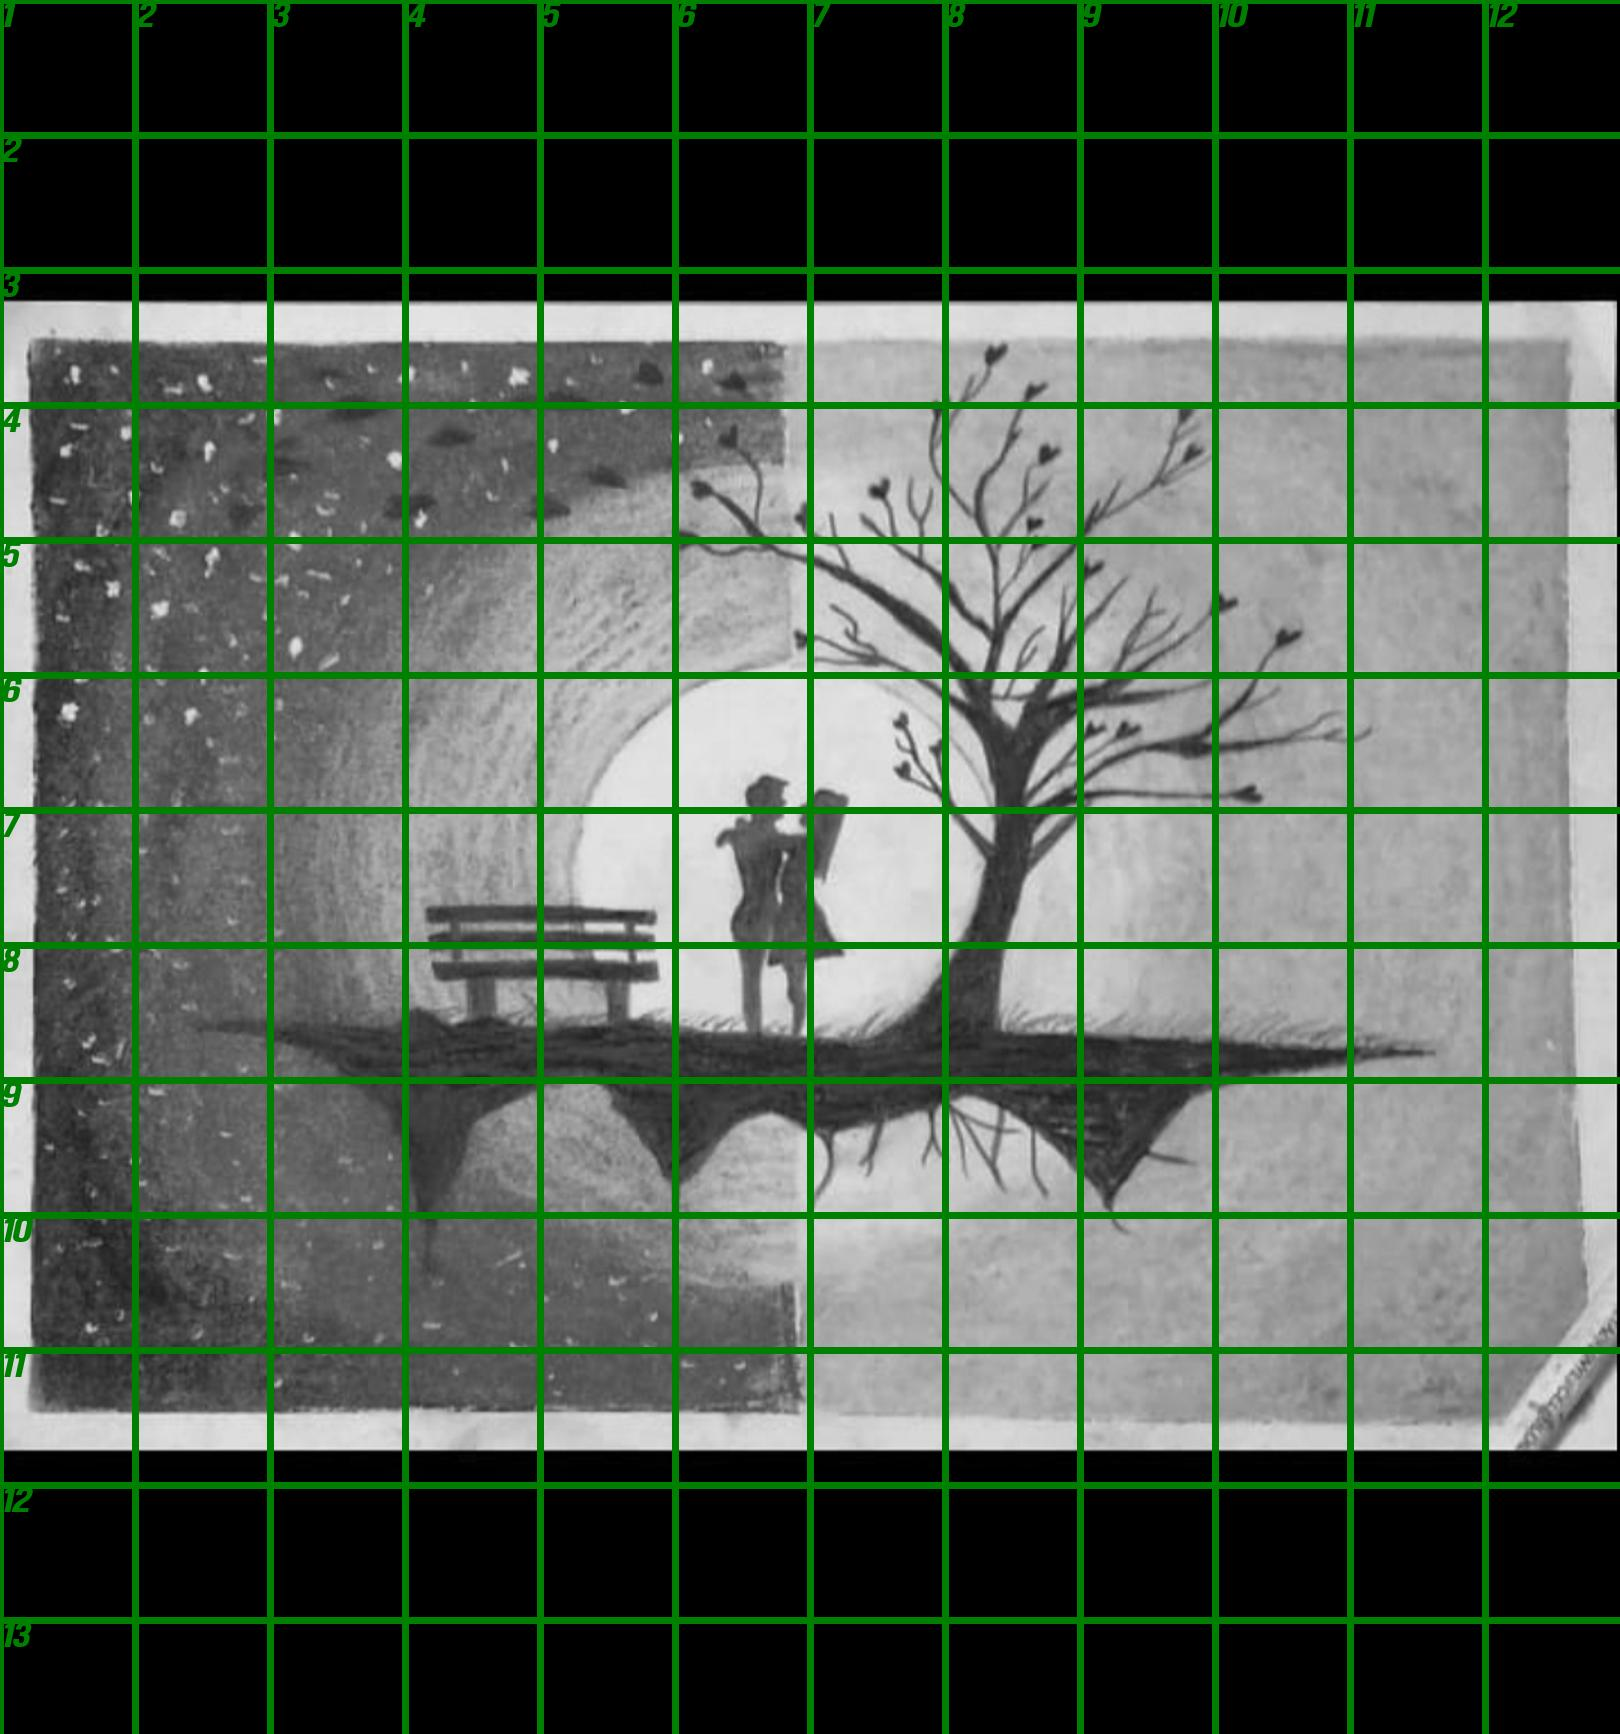
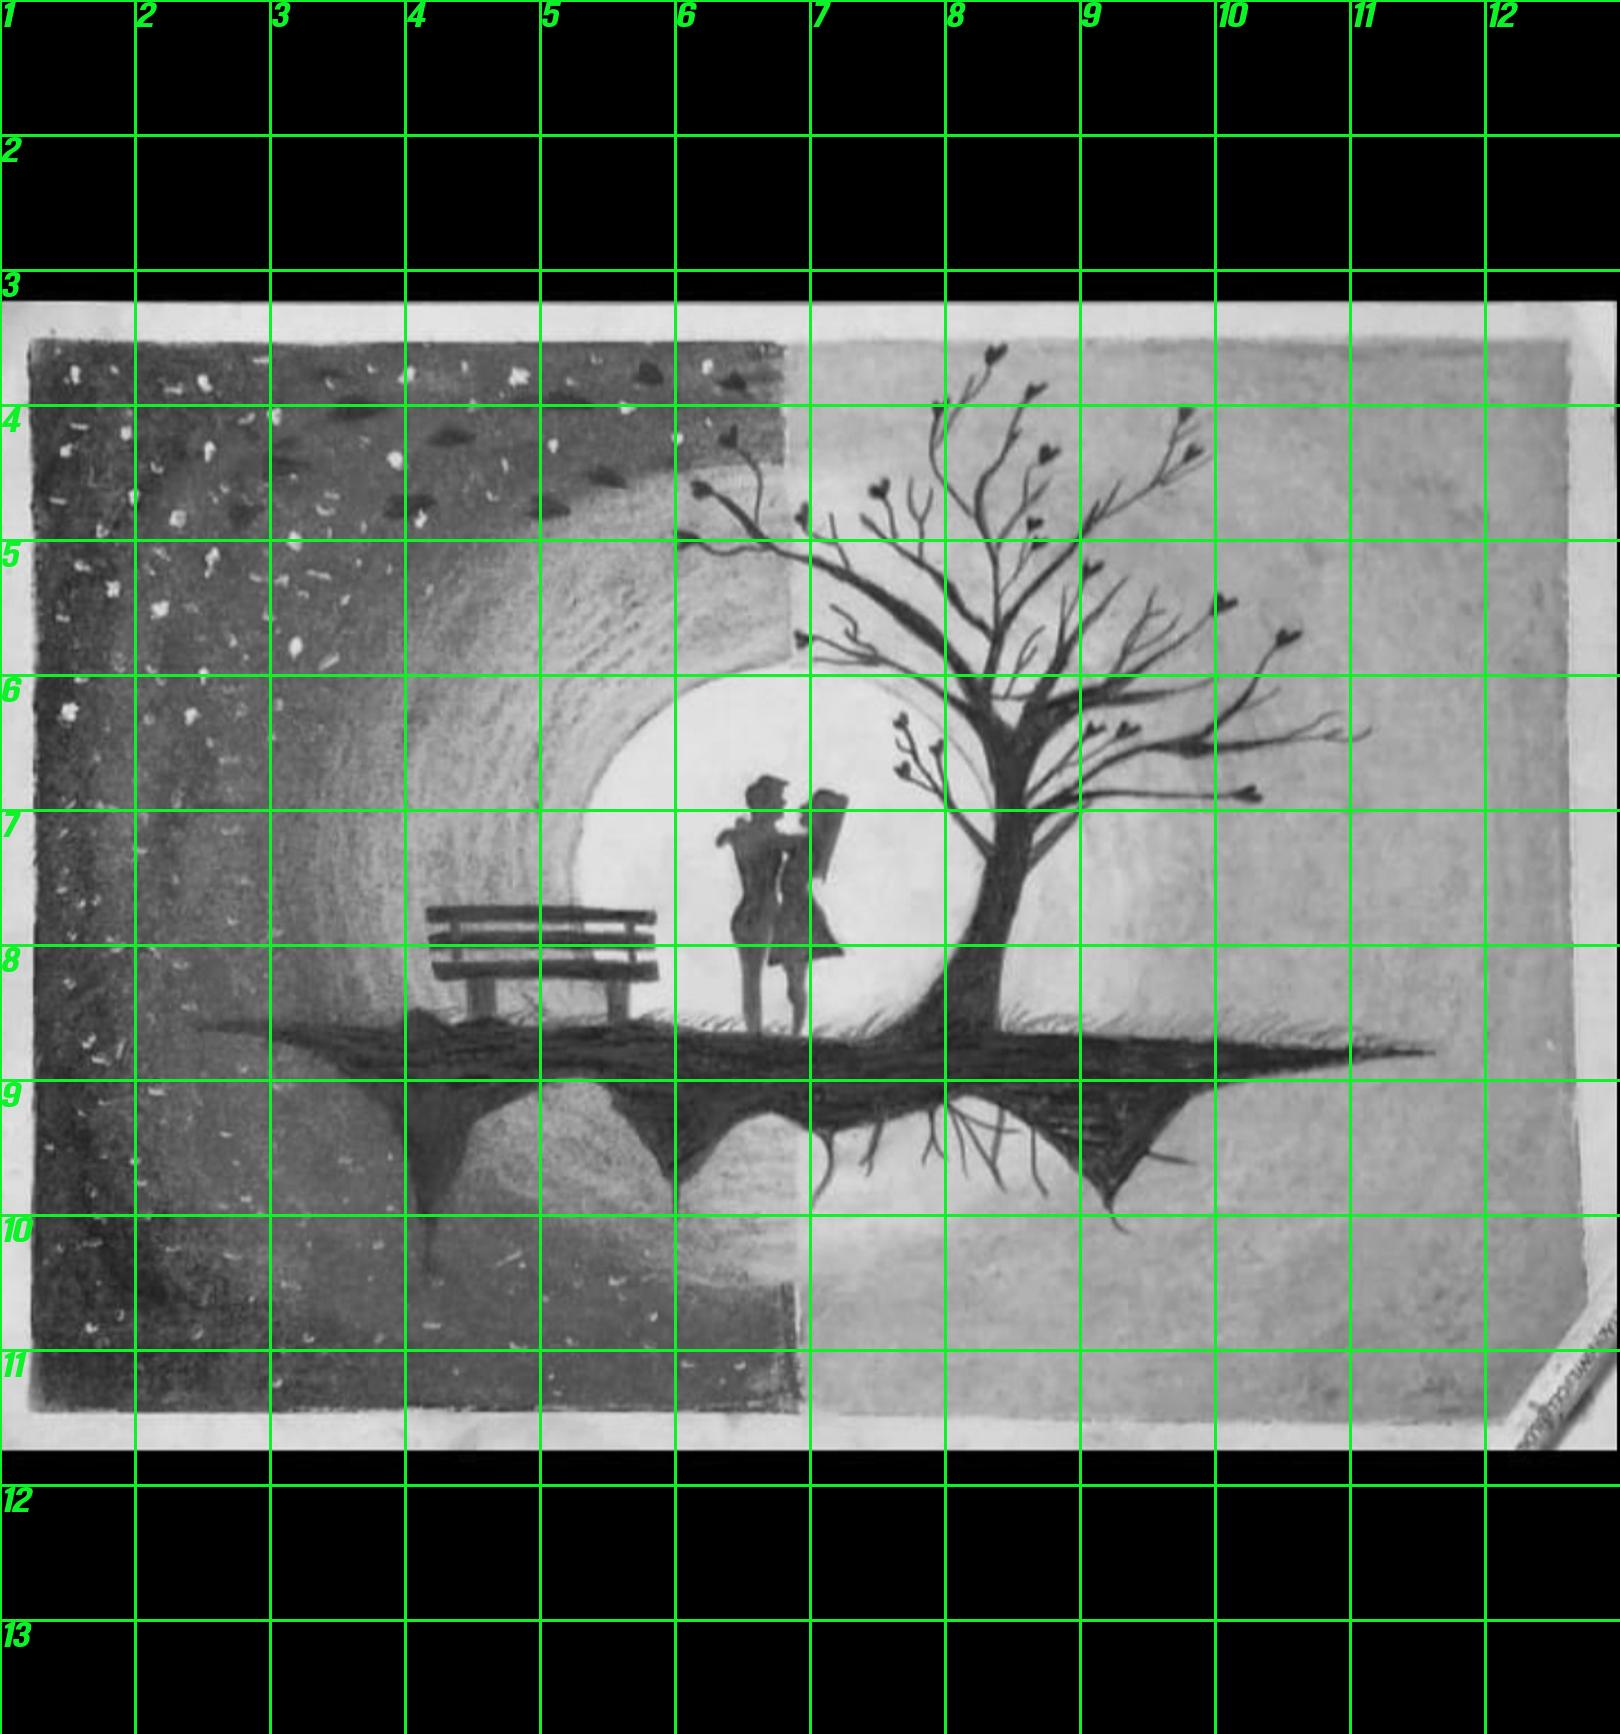
response lag on mail at first page

diff --git a/templates/upload.html b/templates/upload.html
@@ -53,6 +53,7 @@
 					
                     <form action = "http://localhost:5000/uploader" method = "POST" enctype = "multipart/form-data">
                     	{{ form.hidden_tag() }}
+                        
                         <div class="form-input-group" >
                         	{{form.email.label}}<br>
 					     	{{form.email}}
@@ -70,7 +71,6 @@
 						     	{{form.color}}
 						     	<br>
                                 
-                                <div class="select-dropdown"></div>
                             </div>
                         </div>
                         <div class="form-input-group">
@@ -78,8 +78,15 @@
                             	{{form.gridWidth.label}}<br>
 						     	{{form.gridWidth}}
 						     	<br>
-                                
-                                <div class="select-dropdown"></div>
+                               
+                            </div>
+                        </div>
+                        <div class="form-input-group">
+                            <div class="rs-select2 js-select-simple select--no-search">
+                                {{form.lineWidth.label}}<br>
+                                {{form.lineWidth}}
+                                <br>
+                               
                             </div>
                         </div>
                         <div class="form-input-group" >

diff --git a/static/css/main.css b/static/css/main.css
@@ -531,8 +531,8 @@ input {
       background-color: green;
     }
 .subm:hover {
-  color: white;
-}
+      color: white;
+    }
     /*footer*/
     
     .btn{
@@ -584,7 +584,4 @@ input {
     .profile:hover{
       color: black;
     }
-    /*.profile:active{
-      background-color: white;
-    }
-*/
+    

diff --git a/project.py b/project.py
@@ -2,14 +2,14 @@ from flask import Flask, redirect, url_for, request, render_template, flash
 from werkzeug import secure_filename
 from flask_wtf import FlaskForm
 from flask_wtf.file import FileRequired, FileField, FileAllowed
-from wtforms import TextField, SubmitField, SelectField, RadioField, validators, ValidationError
+from wtforms import TextField, SubmitField, SelectField, StringField, FloatField, RadioField, validators, ValidationError
 import os
 import grid
 from flask_mail import Mail, Message
+from wtforms_components import ColorField
 
 app = Flask(__name__)
 app.config['SEND_FILE_MAX_AGE_DEFAULT'] = 0
-
 
 app.config['MAIL_SERVER']='smtp.gmail.com'
 app.config['MAIL_PORT'] = 465
@@ -25,25 +25,24 @@ app.secret_key = 'development key'
 basedir = os.path.abspath(os.path.dirname(__file__))
 UPLOADED_PHOTOS_DEST = os.path.join(basedir, 'static', 'uploads')
 
-color_choices=[('1','red'),('2', 'blue'), ('3','green')]
 width_choices=[('1','large'),('2', 'medium'),('3', 'small')]
 class ContactForm(FlaskForm):
 	email = TextField("Email:",[validators.Required("Please enter your email address."),validators.Email("Please enter valid email address.")])
 	photo= FileField('Upload picture:',validators=[FileRequired(), FileAllowed(['jpg', 'png', 'jpeg'], "Only Images are allowed.")])
-	color= SelectField("grid color:",choices= color_choices)
 	gridWidth= SelectField("grid width:",choices= width_choices)
+	lineWidth= FloatField("Line width:")
 	select= RadioField("Do you want to receive mail with picture? (If you wish to preview image first press No and proceed.)",choices=[('Y',"Yes"),('N',"No")])
+	color = ColorField("Color:")
 	submit = SubmitField("Send")
-   
+	
 class ReviewForm(FlaskForm):
 	select= RadioField("Do you want to receive mail with picture now?", choices=[('Y',"Yes"),('N',"No")])
 	rate= RadioField("Rate us",choices=[("one","1"),("two","2"),("three","3"),("four","4"),("five","5")])
 	submit = SubmitField("Send")
 
 def send_email(form_data,filename):
-    # print(form.email.data)
     msg= Message('Hello', sender = 'riyasethi941@gmail.com', recipients = [form_data])
-    msg.body= 'Testing mail'
+    msg.body= 'Final Image. PFA'
     with app.open_resource(os.path.join(UPLOADED_PHOTOS_DEST,filename)) as fp:
         msg.attach(filename,"image/png",fp.read())
         mail.send(msg)
@@ -60,8 +59,6 @@ def add_header(response):
 @app.route('/display', methods=["POST", "GET"])
 def display():
 	reviewform=ReviewForm()
-	print(request.args.get('email'))
-	print(request.args.get('dest'))
 	if(request.method == "POST"):
 		if(reviewform.select.data=="Y"):
 			send_email(request.args.get('email'),request.args.get('dest'))
@@ -73,37 +70,7 @@ def display():
 
 @app.route('/', methods=["POST","GET"])
 def upload():
-	form=ContactForm()
-	
-	if request.method == 'POST':
-		if form.validate_on_submit():
-			print(form.select)
-			for subfield in form.select:
-				print(subfield)
-				print(subfield.label)
-			
-			f = form.photo.data
-			try:
-				os.remove(os.path.join(UPLOADED_PHOTOS_DEST,secure_filename(f.filename)))
-				print('deleted file')
-			except:
-				print('new file')
-			finally:
-				f.save(os.path.join(UPLOADED_PHOTOS_DEST, secure_filename(f.filename)))
-				grid.makeGrid(gap=dict(width_choices).get(form.gridWidth.data), color=dict(color_choices).get(form.color.data), filename=f.filename)
-				
-				if form.select.data=="Y":
-					send_email(form.email.data,f.filename)
-				return redirect(url_for('display', email=form.email.data, select=form.select.data, dest=f.filename))
-		flash('All fields are required.')
-		print(form.select.label)
-		print(form.email.data)
-		print(form.photo.data.filename)
-		print(form.color.data)
-		return render_template('upload.html',form=form)
-			
-	else:
-		return render_template('upload.html',form=form)
+	return redirect(url_for('upload_file'))
 
 @app.route('/uploader', methods=["POST","GET"])
 def upload_file():
@@ -111,10 +78,10 @@ def upload_file():
 	
 	if request.method == 'POST':
 		if form.validate_on_submit():
-			print(form.select)
-			for subfield in form.select:
-				print(subfield)
-				print(subfield.label)
+
+			# for subfield in form.select:
+			# 	print(subfield)
+			# 	print(subfield.label)
 			
 			f = form.photo.data
 			try:
@@ -124,16 +91,13 @@ def upload_file():
 				print('new file')
 			finally:
 				f.save(os.path.join(UPLOADED_PHOTOS_DEST, secure_filename(f.filename)))
-				grid.makeGrid(gap=dict(width_choices).get(form.gridWidth.data), color=dict(color_choices).get(form.color.data), filename=f.filename)
+				grid.makeGrid(gap=dict(width_choices).get(form.gridWidth.data), color=str(form.color.data), filename=f.filename, stroke=int(form.lineWidth.data))
 				
 				if form.select.data=="Y":
 					send_email(form.email.data,f.filename)
 				return redirect(url_for('display', email=form.email.data, select=form.select.data, dest=f.filename))
 		flash('All fields are required.')
-		print(form.select.label)
-		print(form.email.data)
-		print(form.photo.data.filename)
-		print(form.color.data)
+		
 		return render_template('upload.html',form=form)
 			
 	else:

diff --git a/grid.py b/grid.py
@@ -4,12 +4,10 @@ basedir = os.path.abspath(os.path.dirname(__file__))
 UPLOADED_PHOTOS_DEST = os.path.join(basedir, 'static', 'uploads')
 
 c=1.5
-
 d = dict()
 
-# or fixed size of boxes 48,60,72
-# make function for size
-def makeGrid(gap, color, filename):
+# fixed size of boxes 48,60,72
+def makeGrid(gap, color, filename, stroke):
   dest=os.path.join(UPLOADED_PHOTOS_DEST,filename)
   initimg = Image.open(dest).convert("L")
   initimg = initimg.resize((int(initimg.width*c),int(initimg.height*c)))
@@ -26,12 +24,12 @@ def makeGrid(gap, color, filename):
   x=1
   y=1
   for i in range(0, img.width, gap):
-    drawing.line((i,0,i,img.height),fill=color, width=7)
+    drawing.line((i,0,i,img.height),fill=color, width=stroke)
     drawing.text((i,0),str(y),font=fnt,fill=color)
     y=y+1
   
   for j in range(0, img.height, gap):
-    drawing.line((0,j,img.width,j),fill=color, width=7)
+    drawing.line((0,j,img.width,j),fill=color, width=stroke)
     drawing.text((0,j),str(x),font=fnt,fill=color)
     x=x+1
   img.save(dest)
